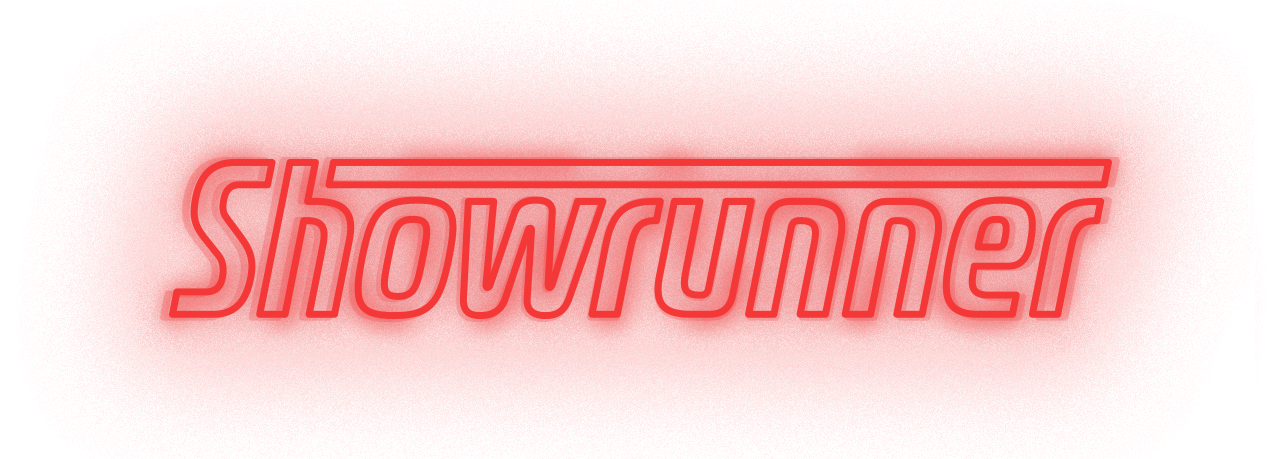
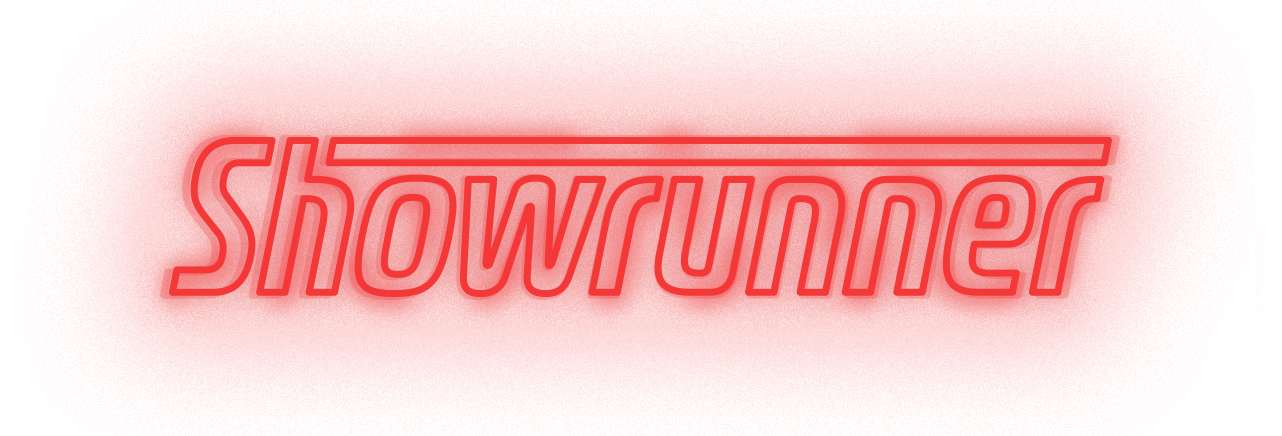
Image optimisation

Changed region(s): [[0.1248, 0.2683, 0.8736, 0.7454]]

diff --git a/pages/showrunner.js b/pages/showrunner.js
@@ -6,13 +6,13 @@ import headerImage from "../public/showrunnerHeader.png";
 import NavBar from "../components/navBar";
 import Video from "../components/video";
 import BuyButton from "../components/buyButton";
-import GameScreenshots from "../components/gameScreenshots";
 
 export default function Showrunner() {
   const gameInfo = {
     name: "Showrunner",
     steamStoreId: "2058200",
     videoId: "8UPMQbm8WkQ",
+    colour: "showrunnerRed",
   };
   return (
     <div>
@@ -26,27 +26,28 @@ export default function Showrunner() {
           alt="Showrunner Logo"
           width="1280"
           height="459"
+          quality="100"
         ></Image>
 
         <FeatureSection
-          title="Ut tincidunt pulvinar"
-          text="Lorem ipsum dolor sit amet, consectetur adipiscing elit. Aliquam porta dui diam, eget luctus arcu vehicula id. Integer sed purus nisl. Nulla convallis diam blandit nunc imperdiet, vel pretium turpis hendrerit."
+          title="Craft Scripts"
+          text="Put scripts together scene by scene to maximise your show's ratings"
           imgSrc="/showrunnerCard.png"
         />
         <FeatureSection
-          title="Proin non libero"
-          text="Lorem ipsum dolor sit amet, consectetur adipiscing elit. Fusce sed tincidunt diam. Vestibulum scelerisque porttitor felis, et eleifend quam cursus quis. In sed facilisis ante, eu dignissim tellus."
+          title="Create Characters and Cast Actors"
+          text="Discover new actors and cast them in your shows, developing their skills as you go"
           imgSrc="/showrunnerCard.png"
           reversed
         />
         <FeatureSection
-          title="Pellentesque eu dolor"
-          text="Lorem ipsum dolor sit amet, consectetur adipiscing elit. In id sagittis eros, in efficitur ligula. Nulla quis finibus lacus, sit amet lacinia ex. Etiam risus diam, varius eget ipsum egestas, pharetra ultricies urna."
+          title="Manage Staff"
+          text="Find the best staff and crew who will work together and improve their abilities over time"
           imgSrc="/showrunnerCard.png"
         />
         <FeatureSection
-          title="Phasellus ultricies mauris"
-          text="Lorem ipsum dolor sit amet, consectetur adipiscing elit. Vivamus lobortis placerat erat ut posuere. Curabitur eu mi sit amet lectus tempor pretium in elementum dui. Phasellus congue dui felis, a tincidunt nisl viverra nec."
+          title="Upgrade Your Studio"
+          text="Earn enough to get better equipment and boost your show's ratings"
           imgSrc="/showrunnerCard.png"
           reversed
         />
@@ -54,26 +55,13 @@ export default function Showrunner() {
         <BuyButton
           steamStoreId={gameInfo.steamStoreId}
           gameName={gameInfo.name}
+          bgColour={`bg-${gameInfo.colour}`}
         />
         <Video videoId={gameInfo.videoId} title="Showrunner Video" />
-
         <BuyButton
           steamStoreId={gameInfo.steamStoreId}
           gameName={gameInfo.name}
-        />
-        <GameScreenshots
-          screenshots={[
-            { imgSrc: "/showrunnerCard.png", title: "Screenshot" },
-            { imgSrc: "/showrunnerCard.png", title: "Screenshot" },
-            { imgSrc: "/showrunnerCard.png", title: "Screenshot" },
-            { imgSrc: "/showrunnerCard.png", title: "Screenshot" },
-            { imgSrc: "/showrunnerCard.png", title: "Screenshot" },
-            { imgSrc: "/showrunnerCard.png", title: "Screenshot" },
-          ]}
-        />
-        <BuyButton
-          steamStoreId={gameInfo.steamStoreId}
-          gameName={gameInfo.name}
+          bgColour={`bg-${gameInfo.colour}`}
         />
       </main>
 

diff --git a/pages/this-merchant-life.js b/pages/this-merchant-life.js
@@ -1,18 +1,18 @@
 import SharedHead from "../components/sharedHead";
 import Footer from "../components/footer";
-import FeatureSection from "../components/featureSection";
 import Image from "next/image";
+import FeatureSection from "../components/featureSection";
 import headerImage from "../public/tmlHeader.png";
 import NavBar from "../components/navBar";
 import Video from "../components/video";
 import BuyButton from "../components/buyButton";
-import GameScreenshots from "../components/gameScreenshots";
 
 export default function ThisMerchantLife() {
   const gameInfo = {
     name: "This Merchant Life",
     steamStoreId: "666730",
     videoId: "DEqhV7cZfP0",
+    colour: "tmlGreen",
   };
   return (
     <div>
@@ -25,7 +25,8 @@ export default function ThisMerchantLife() {
           src={headerImage}
           alt="This Merchant Life Title Screen"
           width="1280"
-          height="459"
+          height="576"
+          quality="100"
         ></Image>
 
         <FeatureSection
@@ -53,6 +54,7 @@ export default function ThisMerchantLife() {
         <BuyButton
           steamStoreId={gameInfo.steamStoreId}
           gameName={gameInfo.name}
+          bgColour={`bg-${gameInfo.colour}`}
         />
 
         <Video videoId={gameInfo.videoId} title="This Merchant Life Video" />
@@ -60,22 +62,7 @@ export default function ThisMerchantLife() {
         <BuyButton
           steamStoreId={gameInfo.steamStoreId}
           gameName={gameInfo.name}
-        />
-
-        <GameScreenshots
-          screenshots={[
-            { imgSrc: "/tmlCard.png", title: "Screenshot" },
-            { imgSrc: "/tmlCard.png", title: "Screenshot" },
-            { imgSrc: "/tmlCard.png", title: "Screenshot" },
-            { imgSrc: "/tmlCard.png", title: "Screenshot" },
-            { imgSrc: "/tmlCard.png", title: "Screenshot" },
-            { imgSrc: "/tmlCard.png", title: "Screenshot" },
-          ]}
-        />
-
-        <BuyButton
-          steamStoreId={gameInfo.steamStoreId}
-          gameName={gameInfo.name}
+          bgColour={`bg-${gameInfo.colour}`}
         />
       </main>
       <Footer />

diff --git a/components/buyButton.js b/components/buyButton.js
@@ -1,11 +1,12 @@
-export default function BuyButton({ steamStoreId, gameName }) {
+export default function BuyButton({ steamStoreId, gameName, bgColour }) {
+  
   return (
     <a
       aria-label={`${gameName} on Steam`}
       target="blank"
       rel="noopener"
       href={`https://store.steampowered.com/app/${steamStoreId}`}
-      className="shadow-black mx-auto shadow-lg flex self-center items-center justify-center w-[288px] h-12 bg-orange text-base my-5 border border-black"
+      className={`shadow-black mx-auto shadow-lg flex self-center items-center justify-center w-[288px] h-12 ${bgColour} text-base my-5 border border-black`}
     >
       <div className="underline">{gameName} on Steam</div>
     </a>

diff --git a/components/gameCard.js b/components/gameCard.js
@@ -10,7 +10,7 @@ export default function GameCard({ imagePath, link, steamStoreId, gameName }) {
           className={`w-72 h-72 bg-cover flex flex-col-reverse ${imagePath}`}
           aria-label={`Find out more about ${gameName}`}
         >
-          <div className="shadow-black shadow-lg flex items-center justify-center text-base h-6 bg-orange text-black border border-black">
+          <div className="shadow-black shadow-lg flex items-center justify-center text-base h-6 bg-white text-black border border-black">
             <div className="underline">Find out more</div>
           </div>
         </a>

diff --git a/tailwind.config.js b/tailwind.config.js
@@ -7,6 +7,8 @@ module.exports = {
   theme: {
     colors: {
       orange: "#f48c0f",
+      tmlGreen: "#549946",
+      showrunnerRed: "#F43737",
       black: "#212121",
       lightgrey: "#c9cecf",
       white: "#ffffff",
